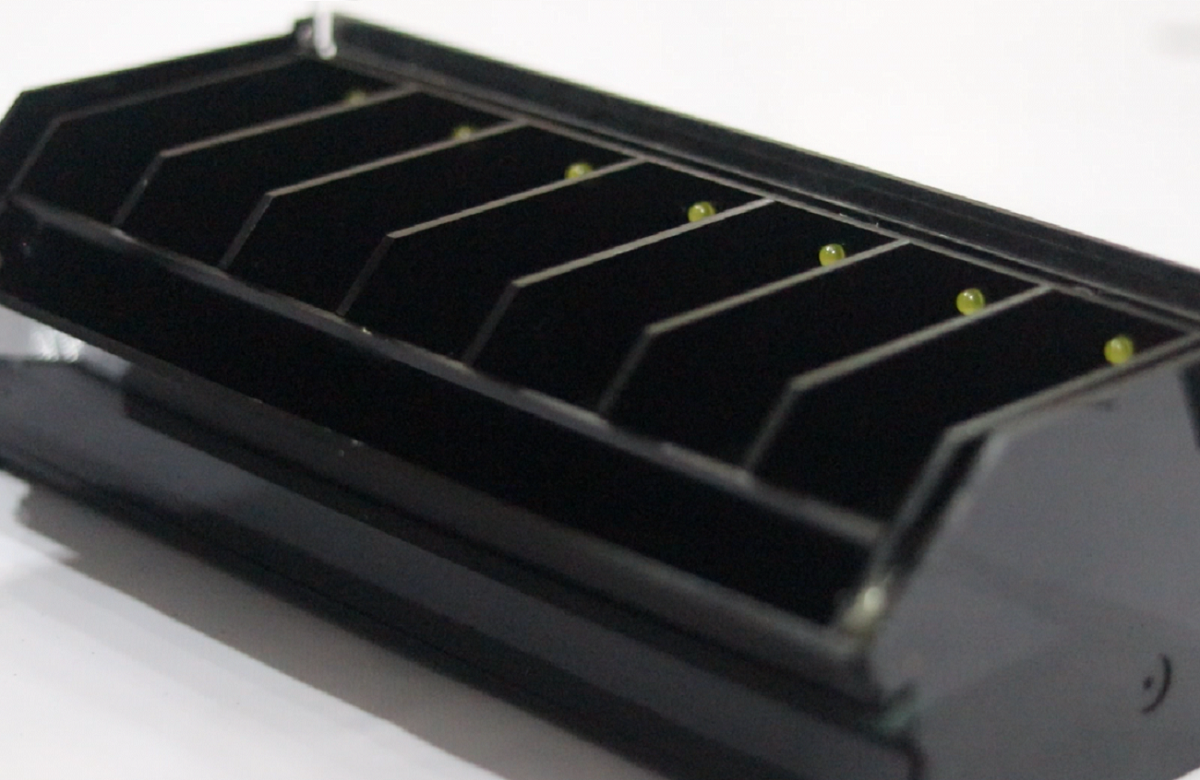
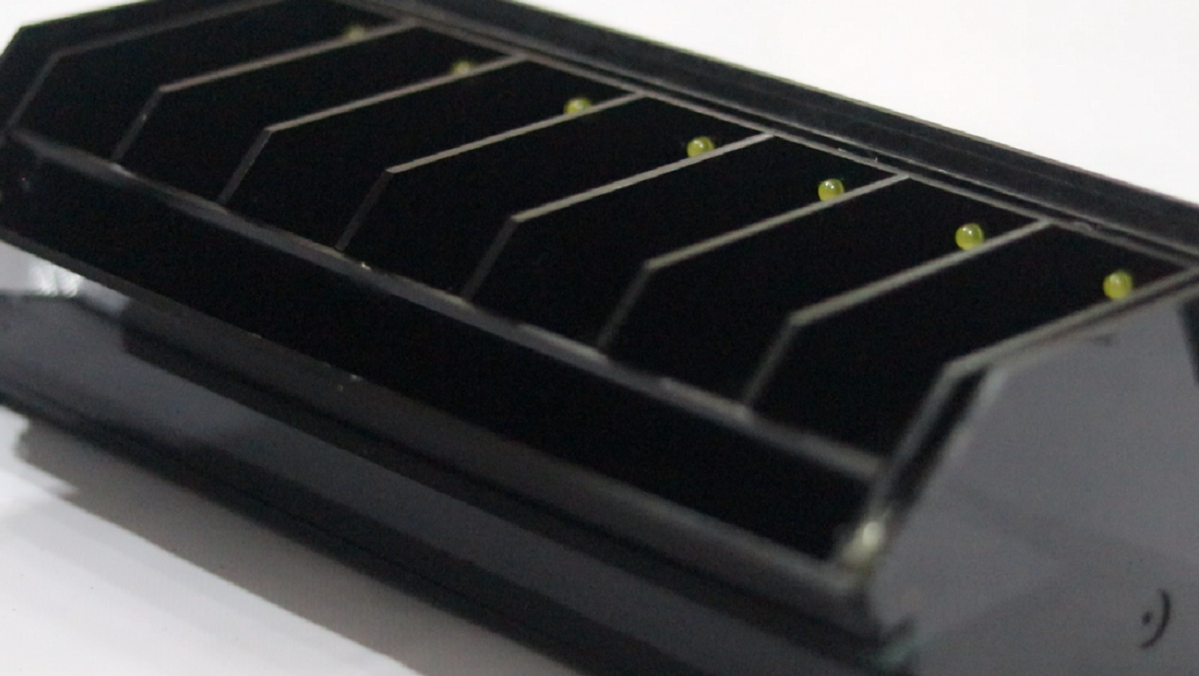
add script for nice isotope

diff --git a/index.html b/index.html
@@ -140,7 +140,11 @@ https://templatemo.com/tm-531-reflux
                                         (NAIST), Japan.
                                     </p>
                                     <div class="white-button">
-                                        <a href="#">Read More</a>
+                                        <a
+                                            href="https://www.linkedin.com/posts/muhammad-fikra-adzaky-9782941b2"
+                                            target="_blank"
+                                            >Read More</a
+                                        >
                                     </div>
                                 </div>
                             </div>
@@ -268,14 +272,12 @@ https://templatemo.com/tm-531-reflux
                                     college. He actively seeks opportunities to
                                     study and innovate in this field. In 2023,
                                     he participated in an Internship program at
-                                    the Nara Institute of Science and Technology
-                                    (NAIST), where he delved into the
-                                    application of Machine Learning in Biology.
-                                    Fikra assisted researchers in their work on
-                                    drug design and drug discovery. During his
-                                    final year, he focused on optimizing
-                                    imbalanced data for his undergraduate
-                                    thesis.
+                                    NAIST, where he delved into the application
+                                    of Machine Learning in Biology. Fikra
+                                    assisted researchers in their work on drug
+                                    design and drug discovery. During his final
+                                    year, he focused on optimizing imbalanced
+                                    data for his undergraduate thesis.
                                 </p>
                             </div>
                         </div>
@@ -360,13 +362,6 @@ https://templatemo.com/tm-531-reflux
                                             >
                                                 <i class="fa fa-search"></i>
                                             </a>
-                                            <a
-                                                href="https://github.com/yourusername/search-rescue-robot"
-                                                target="_blank"
-                                                rel="noopener"
-                                            >
-                                                <i class="fa fa-github"></i>
-                                            </a>
                                             <h4>
                                                 Search &amp; Rescue Automatic
                                                 Robot (2021)
@@ -392,6 +387,13 @@ https://templatemo.com/tm-531-reflux
                                                 data-title="Modern Smart Pill Box (MOSPIX)"
                                             >
                                                 <i class="fa fa-search"></i>
+                                            </a>
+                                            <a
+                                                href="https://youtu.be/ppkRWq0ISVw?si=vM7wYbvW4POjVyKy&t=32"
+                                                target="_blank"
+                                                rel="noopener"
+                                            >
+                                                <i class="fa fa-play"></i>
                                             </a>
                                             <h4>
                                                 Modern Smart Pill Box (MOSPIX)
@@ -547,13 +549,6 @@ https://templatemo.com/tm-531-reflux
                                     </figure>
                                 </div>
                             </div>
-                            <!--
-                                Suggestions:
-                                - Consider combining all isotope items into a single .isotope-box for better filtering performance.
-                                - Use more descriptive alt text for accessibility.
-                                - If you have more projects, keep the structure consistent.
-                                - Add rel=\"noopener\" to external links for security.
-                            -->
                         </div>
                     </div>
                 </div>
@@ -649,12 +644,35 @@ https://templatemo.com/tm-531-reflux
         <!-- Bootstrap core JavaScript -->
         <script src="vendor/jquery/jquery.min.js"></script>
         <script src="vendor/bootstrap/js/bootstrap.bundle.min.js"></script>
-
+        <!-- Include Isotope -->
+        <script src="https://unpkg.com/isotope-layout@3/dist/isotope.pkgd.min.js"></script>
+        <!-- Include imagesLoaded -->
+        <script src="https://unpkg.com/imagesloaded@4/imagesloaded.pkgd.min.js"></script>
         <script src="assets/js/isotope.min.js"></script>
         <script src="assets/js/owl-carousel.js"></script>
         <script src="assets/js/lightbox.js"></script>
         <script src="assets/js/custom.js"></script>
         <script>
+            // initialize isotope
+            var $grid = $(".isotope-box").isotope({
+                itemSelector: ".isotope-item",
+                layoutMode: "fitRows",
+            });
+
+            // ensure layout after each image loads
+            $grid.imagesLoaded().progress(function () {
+                $grid.isotope("layout");
+            });
+
+            // filter buttons
+            $(".isotope-toolbar").on(
+                "change",
+                'input[name="isotope-filter"]',
+                function () {
+                    var filterValue = $(this).attr("data-type");
+                    $grid.isotope({ filter: filterValue });
+                },
+            );
             //according to loftblog tut
             $(".main-menu li:first").addClass("active");
 
